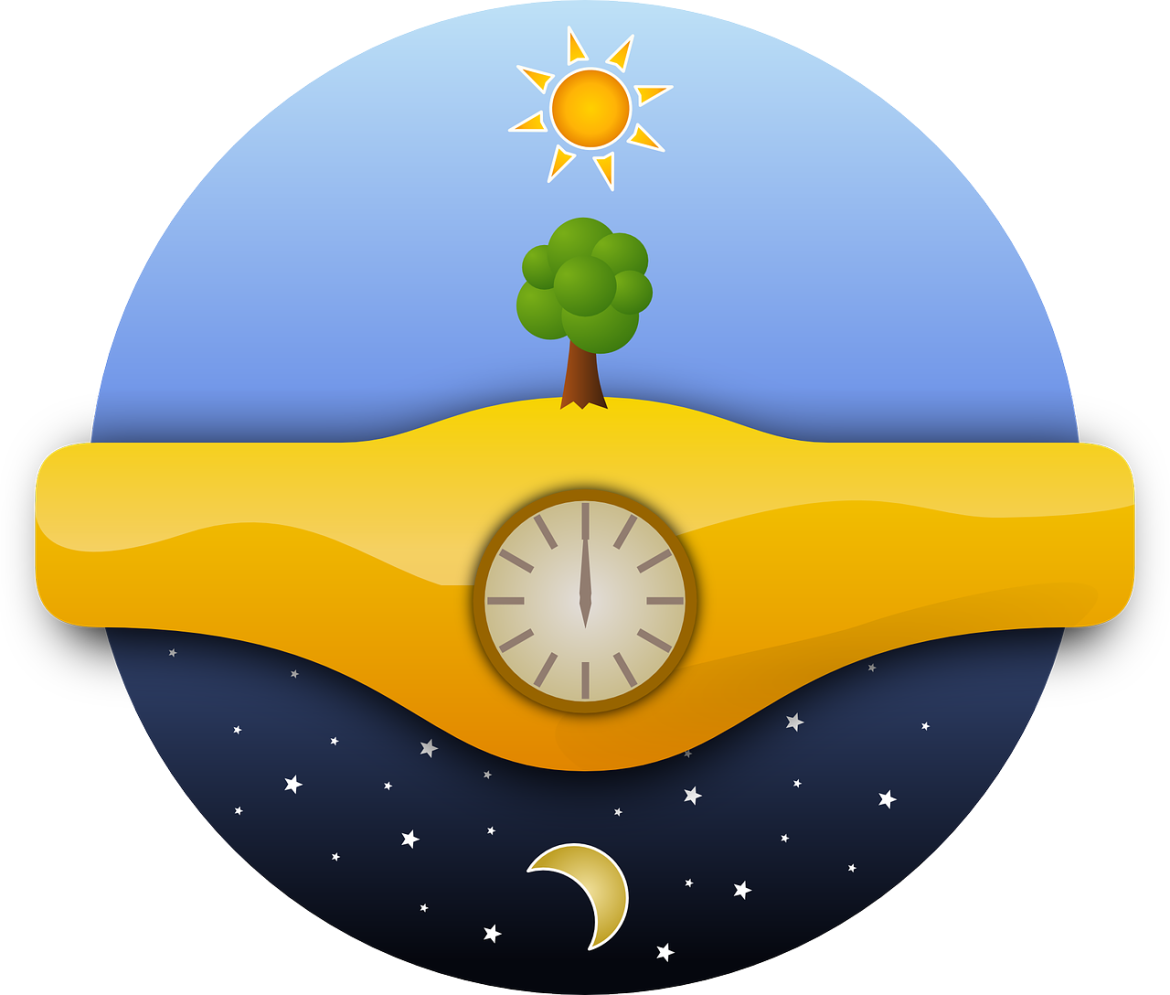
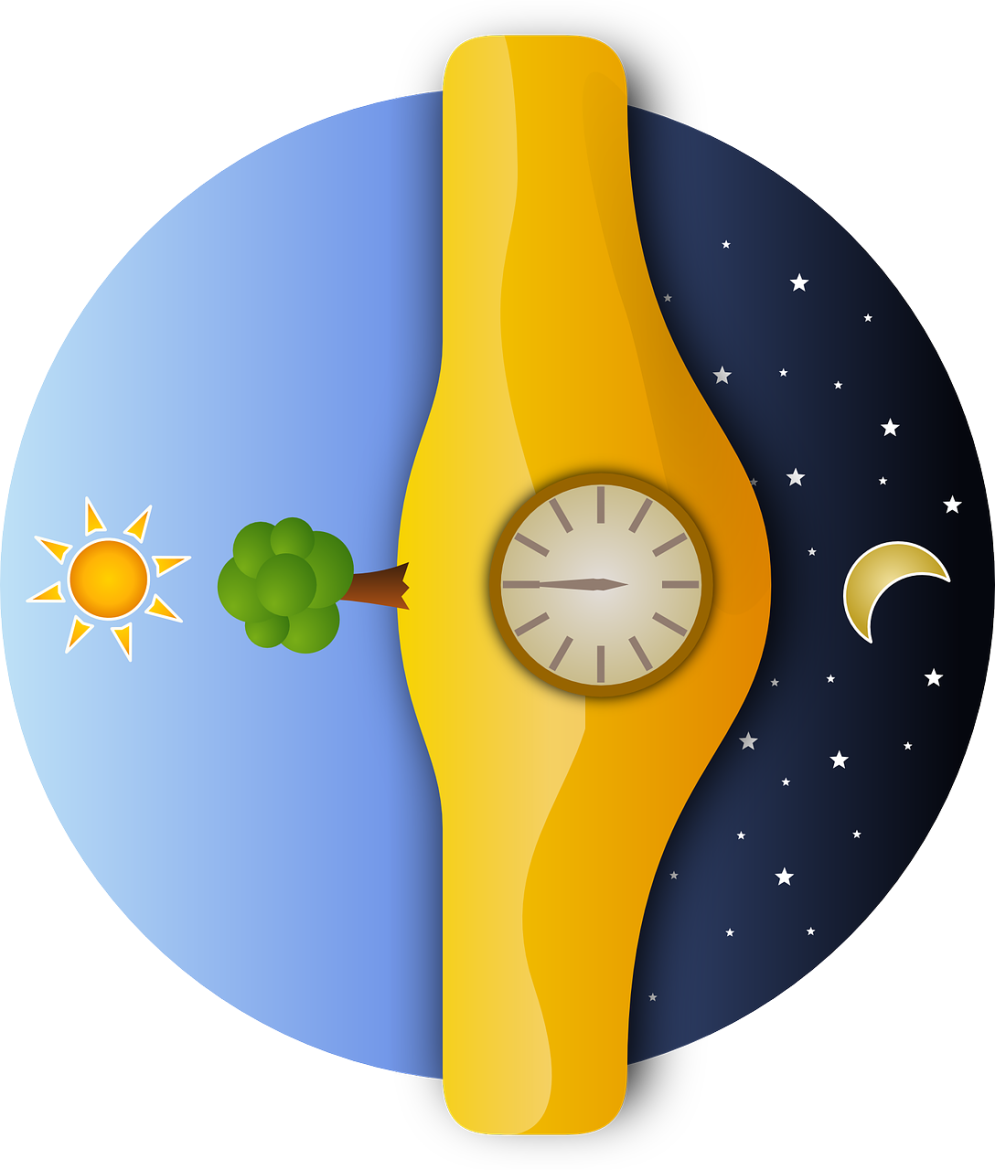
small changes

diff --git a/PGR_semestral/parametry.h b/PGR_semestral/parametry.h
@@ -103,10 +103,10 @@ const StaticCamera STATIC_CAMERAS[2] = {
 
 const std::vector<glm::vec3> CAMERA_PATH = {
 	glm::vec3(0.0f, 5.0f,  10.0f), 
-	glm::vec3(10.0f, 2.0f,  0.0f), 
+	glm::vec3(10.0f, 2.0f,  5.0f), 
 	glm::vec3(0.0f, 8.0f, -10.0f), 
 	glm::vec3(-10.0f, 3.0f,  0.0f),
-	glm::vec3(10.0f, 2.0f,  0.0f),
+	glm::vec3(10.0f, 2.0f,  5.0f),
 	glm::vec3(0.0f, 5.0f,  10.0f)
 };
 
